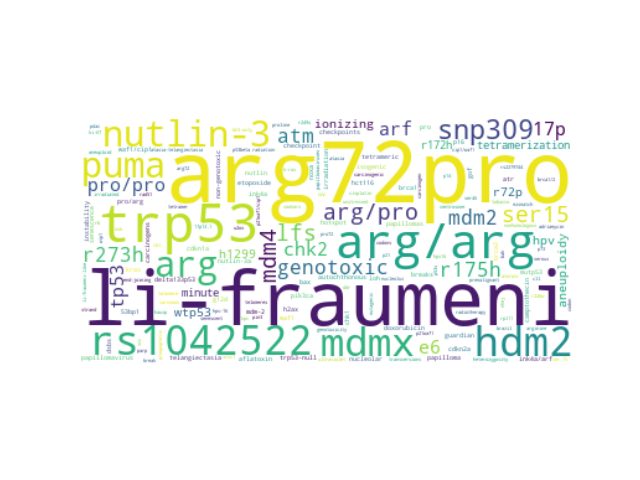
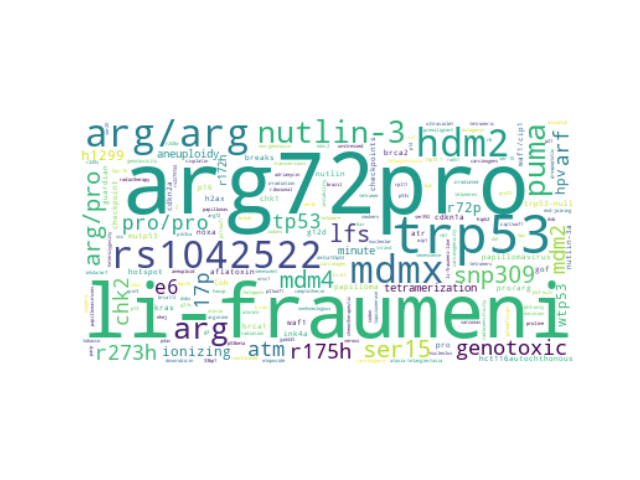
added fig

Changed region(s): [[0.125, 0.25, 0.9062, 0.7812]]

diff --git a/utils/words2cloud.py b/utils/words2cloud.py
@@ -83,7 +83,7 @@ def __get_word_cloud(words, weights, output_file):
     for word, weight in zip(words, weights):
         frequencies.setdefault(word, 0.)
         frequencies[word] += weight
-    wc = WordCloud(background_color="white", relative_scaling=1)
+    wc = WordCloud(background_color="white")
     wc.generate_from_frequencies(frequencies)
     plt.imshow(wc, interpolation="bilinear")
     plt.axis("off")
